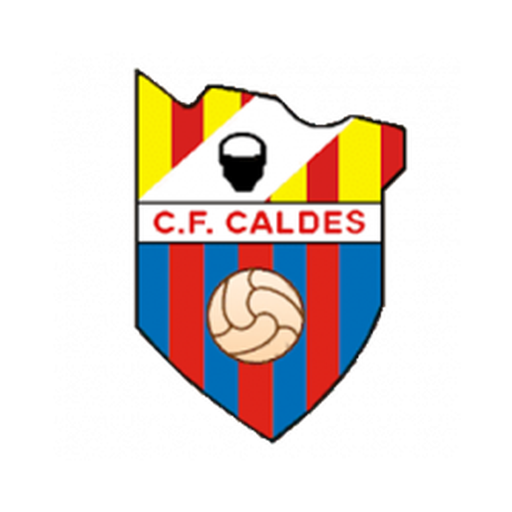
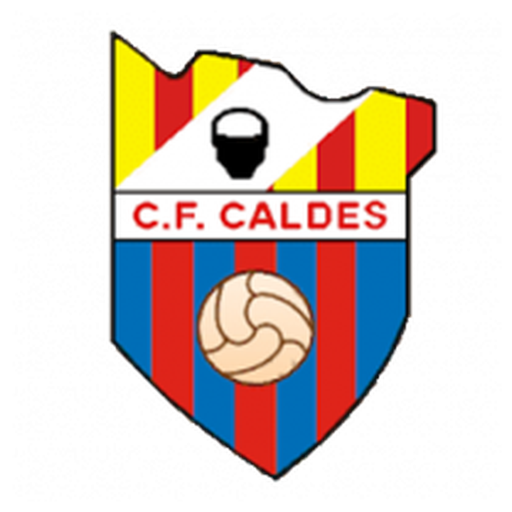
S14A: icono sin fondo blanco, pantalla Más, botón atrás y arreglos de barras en móvil

Changed region(s): [[0.1875, 0.0625, 0.875, 0.9375]]

diff --git a/index.html b/index.html
@@ -3,7 +3,7 @@
 <head>
 <meta charset="utf-8">
 <meta name="viewport" content="width=device-width,initial-scale=1">
-<title>Entrenador SUB14</title>
+<title>S14A</title>
 <style>
 :root{--bg:#f4f6f8;--card:#fff;--ink:#16202a;--mut:#5d6b78;--line:#d9e0e6;--acc:#0b6b3a;--acc2:#e8f3ec;--warn:#b42318;--warnbg:#fdecea;--ok:#067647}
 @media (prefers-color-scheme:dark){:root{--bg:#10161b;--card:#18212a;--ink:#e8eef3;--mut:#93a1ae;--line:#2a3743;--acc:#3fbf7f;--acc2:#16301f;--warn:#ff8a80;--warnbg:#3a1a18;--ok:#5fd39a}}
@@ -198,7 +198,7 @@ button.lnk{background:none;border:0;padding:0;color:inherit;cursor:pointer;text-
 .grid2>*{min-width:0}
 .row select{min-width:0;max-width:100%}
 [data-slot]{flex:1;width:0}
-html,body{overflow-x:hidden}
+html,body{overflow-x:clip}
 .ptab td{padding:6px 4px}
 .ptab input,.ptab select{padding:7px 8px}
 .row.sm{display:none}
@@ -209,6 +209,14 @@ html,body{overflow-x:hidden}
 /* Navegación inferior (móvil) y pantallas de uso en directo */
 #bnav{display:none}
 #more{display:none}
+header h1{display:flex;align-items:center;gap:8px}
+header h1 .ver{font-size:12px;font-weight:500;opacity:.75}
+#hback{display:none;border:0;background:rgba(255,255,255,.18);color:#fff;width:34px;height:34px;border-radius:10px;font-size:24px;line-height:1;padding:0 0 3px;cursor:pointer}
+body.canback #hback{display:inline-flex;align-items:center;justify-content:center}
+.masg{display:grid;grid-template-columns:repeat(3,1fr);gap:10px}
+@media(min-width:600px){.masg{grid-template-columns:repeat(4,1fr)}}
+.masg button{border:1px solid var(--line);background:var(--card);color:var(--ink);border-radius:14px;padding:14px 6px;font-size:13px;font-weight:600;display:flex;flex-direction:column;align-items:center;gap:6px;min-height:86px;box-shadow:var(--sh)}
+.masg button .i{font-size:26px}
 @media(max-width:899px){
  #tabs{display:none}
  #bnav{display:flex;position:fixed;left:0;right:0;bottom:0;top:auto;height:auto;overflow:visible;gap:2px;z-index:25;background:var(--card);border-top:1px solid var(--line);box-shadow:0 -4px 14px rgba(0,0,0,.08);padding:4px 4px calc(4px + env(safe-area-inset-bottom))}
@@ -223,7 +231,16 @@ html,body{overflow-x:hidden}
  header h1{font-size:17px}
  header .priv{display:none}
  .nav2{position:sticky;bottom:70px;background:var(--bg);padding:8px 0;z-index:6;margin:0 -2px}
- .t-sesiones .ph,.t-partido .ph{display:none}
+ .t-sesiones .ph,.t-partido .ph,.t-mas .ph{display:none}
+ body:has(#savebar.show) .nav2{bottom:142px}
+ #cdbar{padding:8px 10px;gap:6px}
+ #cdbar .t{font-size:32px;min-width:96px}
+ #cdbar .l{min-width:0;font-size:12px}
+ #cdbar button{padding:8px 10px}
+ body.cdon .nav2{bottom:200px}
+ body.cdon:has(#savebar.show) .nav2{bottom:272px}
+ body.cdon #savebar{bottom:200px}
+ body.cdon main{padding-bottom:230px}
 }
 #more.show{display:block;position:fixed;inset:0;z-index:35;background:rgba(0,0,0,.45)}
 #more .sh{position:absolute;left:0;right:0;bottom:0;background:var(--card);border-radius:18px 18px 0 0;padding:14px 14px calc(20px + env(safe-area-inset-bottom));max-height:80vh;overflow:auto}
@@ -289,7 +306,7 @@ header{background:linear-gradient(135deg,#1C3F94 0%,#16327A 60%,#C8102E 100%)!im
 </head>
 <body>
 <header>
-  <h1>Entrenador SUB14 A · v3.1</h1>
+  <h1><button id="hback" data-act="back" aria-label="Atrás">‹</button>S14A · Entrenador <span class="ver">v3.2</span></h1>
   <p class="priv">Datos de menores: se guardan solo en este dispositivo. No subir este archivo ni las copias de seguridad a ningún servicio.</p>
 </header>
 <nav id="tabs"></nav>
@@ -658,7 +675,7 @@ function clock(t){var m=Math.floor(t/60),s=t%60;return (m<10?'0':'')+m+':'+(s<10
 function histMin(id){var t=0;S.hist.forEach(function(h){t+=(h.secs&&h.secs[id])||0;});return t;}
 function opts(list,sel){return list.map(function(v){return '<option'+(v===sel?' selected':'')+'>'+esc(v)+'</option>';}).join('');}
 
-var ICON={inicio:'🏠',plantilla:'👥',pizarra:'📋',partido:'⏱',plan:'🗓',sesiones:'📝',pi:'⭐',tecnica:'🧠',coord:'🪜',cohe:'🤝',reglas:'⚖',bib:'📚',prev:'💪',abp:'🎯',videos:'▶',fichas:'🧾',normas:'📜',mensajes:'✉',nutri:'🥗',pendientes:'✅',ayuda:'❓'};
+var ICON={inicio:'🏠',plantilla:'👥',pizarra:'📋',partido:'⏱',plan:'🗓',sesiones:'📝',pi:'⭐',tecnica:'🧠',coord:'🏃',cohe:'🤝',reglas:'⚖',bib:'📚',prev:'💪',abp:'🎯',videos:'▶',fichas:'🧾',normas:'📜',mensajes:'✉',nutri:'🥗',pendientes:'✅',ayuda:'❓',mas:'☰'};
 var TABS=[['inicio','Inicio'],['plantilla','Plantilla'],['pizarra','Pizarra'],['partido','Partido'],['plan','Planificación'],['sesiones','Sesiones'],['pi','Programa individual'],['tecnica','Técnica y táctica'],['coord','Coordinación'],['prev','Prevención'],['abp','Balón parado'],['cohe','Cohesión y ánimo'],['reglas','Reglamento'],['bib','Biblioteca'],['videos','Vídeos'],['fichas','Fichas'],['normas','Normas'],['mensajes','Mensajes'],['nutri','Nutrición'],['pendientes','Pendientes'],['ayuda','Ayuda']];
 var GCAMPO=['inicio','partido','pizarra','plantilla','sesiones','plan','fichas','pi','pendientes'];
 function renderTabs(){
@@ -671,8 +688,26 @@ function renderTabs(){
   var BN=[['inicio','🏠','Inicio'],['sesiones','📝','Sesión'],['partido','⏱','Partido'],['pizarra','📋','Pizarra']];
   var enBN=BN.some(function(x){return x[0]===S.tab;});
   $('#bnav').innerHTML=BN.map(function(x){return '<button data-tab="'+x[0]+'" class="'+(S.tab===x[0]?'on':'')+'"><span class="i">'+x[1]+'</span>'+x[2]+'</button>';}).join('')+
-   '<button data-act="more" class="'+(enBN?'':'on')+'"><span class="i">☰</span>'+(enBN?'Más':esc(tn[S.tab]||'Más'))+'</button>';
+   '<button data-tab="mas" class="'+(enBN?'':'on')+'"><span class="i">☰</span>'+(enBN||S.tab==='mas'?'Más':esc(tn[S.tab]||'Más'))+'</button>';
+  document.body.classList.toggle('canback',S.tab!=='inicio');
 }
+function vMas(){
+  var tn={};TABS.forEach(function(t){tn[t[0]]=t[1];});
+  var c1=GCAMPO.filter(function(k){return ['inicio','sesiones','partido','pizarra'].indexOf(k)<0;});
+  var c2=TABS.map(function(t){return t[0];}).filter(function(k){return GCAMPO.indexOf(k)<0;});
+  function g(ks){return '<div class="masg">'+ks.map(function(k){return '<button data-tab="'+k+'"><span class="i">'+(ICON[k]||'')+'</span>'+esc(tn[k])+'</button>';}).join('')+'</div>';}
+  return '<h3 style="margin:4px 2px 10px">Campo</h3>'+g(c1)+'<h3 style="margin:18px 2px 10px">Consulta</h3>'+g(c2);
+}
+/* Botón de atrás: historial propio para que el «atrás» del móvil no cierre la app */
+function navState(){return {tab:S.tab,sesv:S.sesv||null,sstep:S.sstep||0};}
+function pushNav(){try{history.pushState(navState(),'','#'+S.tab);}catch(e){}}
+window.addEventListener('popstate',function(e){
+  var st=e.state;
+  if(DIRTY){try{history.pushState(navState(),'','#'+S.tab);}catch(x){}canLeave();return;}
+  if(!st){st={tab:'inicio'};}
+  S.tab=st.tab||'inicio';if(st.sesv!==undefined)S.sesv=st.sesv;if(st.sstep!==undefined)S.sstep=st.sstep;
+  save();render();window.scrollTo(0,0);
+});
 function showMore(){
   var tn={};TABS.forEach(function(t){tn[t[0]]=t[1];});
   var c1=GCAMPO.filter(function(k){return ['inicio','sesiones','partido','pizarra'].indexOf(k)<0;});
@@ -705,13 +740,14 @@ function render(){
   else if(S.tab==='normas')v.innerHTML=vNormas();
   else if(S.tab==='mensajes')v.innerHTML=vMensajes();
   else if(S.tab==='ayuda')v.innerHTML=vAyuda();
+  else if(S.tab==='mas')v.innerHTML=vMas();
   else v.innerHTML=vPend();
   if(S.tab!=='inicio')pageHead(v);
   if(['inicio','partido','pizarra','plantilla','sesiones','fichas','pi'].indexOf(S.tab)<0)accordionize(v);
 }
-var TABSUB={ayuda:'Cómo usar la app, por prioridades. Se actualiza con cada versión.',plantilla:'Los 18 jugadores: posiciones, perfil, pie y minutos.',pizarra:'Sistema, once y roles de balón parado.',partido:'Convocatoria, once inicial, minutos y cambios en directo.',plan:'Fases de la temporada, semana tipo y reparto de contenidos.',sesiones:'Ficha de la sesión, pase de lista, semáforo y cuenta atrás.',pi:'Prioridades, plan y tests de cada jugador.',fichas:'Seguimiento individual: objetivos y entrevistas.',pendientes:'Lo que queda por hacer, por bloques.',tecnica:'Conceptos para entender y enseñar, con diagramas.',coord:'Ejercicios de coordinación para la activación.',prev:'Fuerza, prevención y actuación ante golpes.',abp:'Jugadas de estrategia para atacar y defender.',cohe:'Grupo, ánimo y equipos mixtos.',reglas:'Reglamento y gestión del partido.',bib:'Investigación por temas, con fuentes y límites.',videos:'Vídeos de referencia por ejercicio.',normas:'Normas del equipo y capitanía.',mensajes:'Plantillas de mensajes para familias y club.',nutri:'Alimentación, hidratación y descanso.'};
+var TABSUB={mas:'Todas las demás pestañas.',ayuda:'Cómo usar la app, por prioridades. Se actualiza con cada versión.',plantilla:'Los 18 jugadores: posiciones, perfil, pie y minutos.',pizarra:'Sistema, once y roles de balón parado.',partido:'Convocatoria, once inicial, minutos y cambios en directo.',plan:'Fases de la temporada, semana tipo y reparto de contenidos.',sesiones:'Ficha de la sesión, pase de lista, semáforo y cuenta atrás.',pi:'Prioridades, plan y tests de cada jugador.',fichas:'Seguimiento individual: objetivos y entrevistas.',pendientes:'Lo que queda por hacer, por bloques.',tecnica:'Conceptos para entender y enseñar, con diagramas.',coord:'Ejercicios de coordinación para la activación.',prev:'Fuerza, prevención y actuación ante golpes.',abp:'Jugadas de estrategia para atacar y defender.',cohe:'Grupo, ánimo y equipos mixtos.',reglas:'Reglamento y gestión del partido.',bib:'Investigación por temas, con fuentes y límites.',videos:'Vídeos de referencia por ejercicio.',normas:'Normas del equipo y capitanía.',mensajes:'Plantillas de mensajes para familias y club.',nutri:'Alimentación, hidratación y descanso.'};
 function pageHead(v){
-  var tn='';TABS.forEach(function(t){if(t[0]===S.tab)tn=t[1];});
+  var tn=S.tab==='mas'?'Más':'';TABS.forEach(function(t){if(t[0]===S.tab)tn=t[1];});
   var sub=TABSUB[S.tab]||'';
   var first=v.firstElementChild;
   if(first&&first.classList.contains('card')&&!first.classList.contains('keep')&&first.children.length<=2){
@@ -1023,7 +1059,7 @@ if(S.match.running&&Date.now()-(S.match.lastTs||0)>600000){S.match.running=false
 
 /* ---------- Sesiones ---------- */
 /* ---------- Ayuda: se genera desde GUIA_USUARIO.md (lo incrusta construir_publico.py; no editar a mano) ---------- */
-var GUIA_MD=/*GUIA*/"# Guía de usuario · App Entrenador SUB14\n\nOrdenada por prioridad: empieza por arriba y baja solo cuando lo necesites.\n\n- **Dirección:** https://aquiles1984.github.io/app-entrenador/ (instalada en el móvil con el icono del escudo).\n- **Tus datos** se guardan solo en tu móvil. No hay servidor ni nube.\n\n---\n\n## Reglas básicas (léelas una vez)\n\n1. **Abajo** tienes la barra: **Inicio · Sesión · Partido · Pizarra · Más**. «Más» abre el resto de pestañas.\n2. **Cuando cambias algo**, sale abajo la barra negra **«Cambios sin guardar» › Guardar / Cancelar**. Hasta que no pulsas Guardar, no se guarda. No te deja cambiar de pestaña sin guardar o cancelar.\n3. **Lo único que se guarda solo** es el partido una vez empezado (minutos, cambios) y la cuenta atrás.\n4. **Copia de seguridad, una vez a la semana:** Más › Plantilla › **«Copiar como texto»** y pégalo en tu WhatsApp. Si cambias o pierdes el móvil, es lo que te salva.\n\n---\n\n## PRIORIDAD 1 · Lo que usarás cada día\n\n### Sesión (entreno)\nArriba eliges el **día** tocando una ficha de fecha. Debajo, tres pasos:\n\n| Paso | Cuándo | Qué haces |\n|---|---|---|\n| **Antes** | La noche anterior | Lees objetivo, material y la lista de tareas. «Ficha completa» para imprimir. |\n| **En el campo** | Durante el entreno | 1) **Pase de lista** y **semáforo** › Guardar. 2) **Empezar ▶** y vas **tarea a tarea**: diagrama, claves y **cuenta atrás**. 3) **Siguiente ▶** hasta el final. |\n| **Después** | Al acabar | **Esfuerzo del grupo** (toca 1-10), **minutos reales**, y **cada jugador** con un toque (1 flojo, 2 bien, 3 muy bien) › Guardar. |\n\n- Si la sesión es **hoy**, se abre directamente en «En el campo».\n- **Pase de lista:** Presente, Justificada o Falta. «Marcar el resto como presentes» te ahorra toques.\n- **Semáforo:** Bien, Molestia o Dolor (rodilla, talón…). Con molestia: menos saltos y esprints. Con dolor: sin impactos y avisar a la familia.\n- **Cuenta atrás:** sale abajo en grande, vibra y pita al acabar. Tienes también botones de **agua** de 1', 2' y 3'.\n\n### Partido\n| Momento | Qué haces |\n|---|---|\n| **Antes** | **Convocatoria** (toca a cada jugador o «Convocar a todos»), **once inicial** (toca a los 11) y **▶ Empezar el partido**. La **cronología T-90** te dice qué hacer y cuándo en la previa. |\n| **Durante** | **Pausar / Reanudar**, **Fin de la 1ª parte** y **2ª parte**. **Cambios:** «Abrir ventana», tocas al que **sale** (se marca en dorado) y luego al que **entra**. Contador de ventanas **0/3**. |\n| **Siempre visible** | Alerta **roja «Sin minutos»**: en Infantil S14 **todos los convocados deben jugar**. Se vuelve verde cuando todos han jugado. |\n| **Al acabar** | Resultado, **evaluación** (defensa, salida de balón, finalización) y **mensaje** listo para copiar: uno para las **familias** (sin minutos por jugador) y otro para el **coordinador** (con detalle). «Guardar al historial». |\n\n- **Golpe en la cabeza:** desplegable «🚑» en Partido: fuera del campo y no vuelve ese día, señales para llamar al 112 y botón de llamada.\n\n---\n\n## PRIORIDAD 2 · Lo que usarás cada semana\n\n### Crear los entrenos (Sesión › «+ Nueva»)\n1. Propone el siguiente día de entreno (saltándose los partidos) y el campo según el día.\n2. Elige la **idea de la semana** y escribe el **objetivo**.\n3. **«✨ Proponer sesión»** te monta activación, técnica, juego reducido y situación de partido.\n4. Ajusta: **«+ Añadir del banco»** (unas 40 tareas con diagrama; filtras por tipo y salen primero, con ⭐, las de la idea de la semana), **«+ Tarea libre»**, ▲▼ para ordenar y ✕ para quitar. Controla el **total de minutos** (75).\n5. **Guardar.**\n- **Repetir una sesión:** ábrela › Antes › **«📄 Duplicar para otro día»**.\n\n### Pizarra\n- Elige el **sistema** (4-2-3-1, 4-1-4-1, 4-4-2…). En cada puesto salen primero los jugadores que **encajan** por posición; los demás, como «excepción».\n- Arrastra los jugadores en el campo.\n- Debajo: **equilibrio del once** (perfiles) y **roles de balón parado** (lanzadores, barrera, rematadores, cierre de contra).\n\n### Más › Planificación\n- La **semana tipo** (lunes, martes, jueves), las fases de la temporada y el reparto de trabajo (poco analítico, mucho juego).\n\n---\n\n## PRIORIDAD 3 · De vez en cuando\n\n| Pestaña (en «Más») | Para qué |\n|---|---|\n| **Plantilla** | Nombres, dorsales, posición principal y secundaria, pie y minutos. Toca el título de una columna para **ordenar** (▲▼). Bajo cada nombre, **«Elegir perfil ▾»** (aéreo, salida de balón, velocidad…). Aquí también están las **copias de seguridad**. |\n| **Fichas** | Seguimiento de cada jugador: objetivos, entrevistas, pase de lista y semáforo. |\n| **Programa individual** | Prioridades, plan y tests de cada jugador. |\n| **Pendientes** | Lo que te queda por hacer (club, material…). |\n| **Mensajes** | Plantillas para familias y club: rellenas los datos y copias. |\n\n---\n\n## PRIORIDAD 4 · Consulta (cuando tengas tiempo)\n\nTodas con los textos en **desplegables cerrados** y «Abrir todo» arriba.\n\n| Pestaña | Qué hay |\n|---|---|\n| **Técnica y táctica** | Cobertura, basculación, permutas, transiciones, disparo, desmarques… con diagramas y ejercicios. |\n| **Coordinación** | Ejercicios para la activación. |\n| **Prevención** | Fuerza en Infantil (qué sí y qué no), isométricos con dosis y golpe en la cabeza. |\n| **Balón parado** | Córners, faltas y saques, en ataque y en defensa. |\n| **Cohesión y ánimo** | Grupitos, equipos mixtos y termómetro del ánimo. |\n| **Normas** | Normas del equipo y capitanía rotativa. |\n| **Reglamento** | Reglas FCF de Infantil S14 y gestión del partido. |\n| **Biblioteca** | Los 10 temas investigados, con conclusión, recomendaciones y fuentes. |\n| **Vídeos** y **Nutrición** | Referencias y consejos para las familias. |\n| **Ayuda** | Esta guía. Se actualiza sola con cada versión de la app. |\n\n---\n\n## Preguntas rápidas\n\n- **No me deja cambiar de pestaña.** Tienes cambios sin guardar: pulsa **Guardar** o **Cancelar** en la barra negra.\n- **He cambiado de móvil o he reinstalado la app.** Más › Plantilla › pega la copia de WhatsApp en «Pega aquí la copia…» › **Importar**.\n- **Quiero ver los datos en el PC.** En el móvil, «Copiar como texto» › WhatsApp. En el PC, abre la misma dirección, pega la copia › **Importar** (o **Fusionar** si ya tienes datos).\n- **La app no se actualiza.** Ciérrala del todo y ábrela otra vez. Si sigue igual, ábrela una vez en Chrome con la dirección y vuelve al icono.\n- **Sin cobertura en el campo.** Funciona igual: todo se guarda en el móvil.\n"/*FINGUIA*/;
+var GUIA_MD=/*GUIA*/"# Guía de usuario · App Entrenador SUB14\n\nOrdenada por prioridad: empieza por arriba y baja solo cuando lo necesites.\n\n- **Dirección:** https://aquiles1984.github.io/app-entrenador/ (instalada en el móvil como **S14A**, con el icono del escudo).\n- **Tus datos** se guardan solo en tu móvil. No hay servidor ni nube.\n\n---\n\n## Reglas básicas (léelas una vez)\n\n1. **Abajo** tienes la barra: **Inicio · Sesión · Partido · Pizarra · Más**. «Más» es una pantalla con el resto de pestañas.\n2. **Atrás:** el botón **‹** de arriba a la izquierda, o el de atrás del móvil, te lleva a la pantalla anterior (también paso a paso en «En el campo»). Desde Inicio, el de atrás del móvil sale de la app.\n3. **Cuando cambias algo**, sale abajo la barra negra **«Cambios sin guardar» › Guardar / Cancelar**. Hasta que no pulsas Guardar, no se guarda. No te deja cambiar de pestaña sin guardar o cancelar.\n4. **Lo único que se guarda solo** es el partido una vez empezado (minutos, cambios) y la cuenta atrás.\n5. **Copia de seguridad, una vez a la semana:** Más › Plantilla › **«Copiar como texto»** y pégalo en tu WhatsApp. Si cambias o pierdes el móvil, es lo que te salva.\n\n---\n\n## PRIORIDAD 1 · Lo que usarás cada día\n\n### Sesión (entreno)\nArriba eliges el **día** tocando una ficha de fecha. Debajo, tres pasos:\n\n| Paso | Cuándo | Qué haces |\n|---|---|---|\n| **Antes** | La noche anterior | Lees objetivo, material y la lista de tareas. «Ficha completa» para imprimir. |\n| **En el campo** | Durante el entreno | 1) **Pase de lista** y **semáforo** › Guardar. 2) **Empezar ▶** y vas **tarea a tarea**: diagrama, claves y **cuenta atrás**. 3) **Siguiente ▶** hasta el final. |\n| **Después** | Al acabar | **Esfuerzo del grupo** (toca 1-10), **minutos reales**, y **cada jugador** con un toque (1 flojo, 2 bien, 3 muy bien) › Guardar. |\n\n- Si la sesión es **hoy**, se abre directamente en «En el campo».\n- **Pase de lista:** Presente, Justificada o Falta. «Marcar el resto como presentes» te ahorra toques.\n- **Semáforo:** Bien, Molestia o Dolor (rodilla, talón…). Con molestia: menos saltos y esprints. Con dolor: sin impactos y avisar a la familia.\n- **Cuenta atrás:** sale abajo en grande, vibra y pita al acabar. Tienes también botones de **agua** de 1', 2' y 3'.\n\n### Partido\n| Momento | Qué haces |\n|---|---|\n| **Antes** | **Convocatoria** (toca a cada jugador o «Convocar a todos»), **once inicial** (toca a los 11) y **▶ Empezar el partido**. La **cronología T-90** te dice qué hacer y cuándo en la previa. |\n| **Durante** | **Pausar / Reanudar**, **Fin de la 1ª parte** y **2ª parte**. **Cambios:** «Abrir ventana», tocas al que **sale** (se marca en dorado) y luego al que **entra**. Contador de ventanas **0/3**. |\n| **Siempre visible** | Alerta **roja «Sin minutos»**: en Infantil S14 **todos los convocados deben jugar**. Se vuelve verde cuando todos han jugado. |\n| **Al acabar** | Resultado, **evaluación** (defensa, salida de balón, finalización) y **mensaje** listo para copiar: uno para las **familias** (sin minutos por jugador) y otro para el **coordinador** (con detalle). «Guardar al historial». |\n\n- **Golpe en la cabeza:** desplegable «🚑» en Partido: fuera del campo y no vuelve ese día, señales para llamar al 112 y botón de llamada.\n\n---\n\n## PRIORIDAD 2 · Lo que usarás cada semana\n\n### Crear los entrenos (Sesión › «+ Nueva»)\n1. Propone el siguiente día de entreno (saltándose los partidos) y el campo según el día.\n2. Elige la **idea de la semana** y escribe el **objetivo**.\n3. **«✨ Proponer sesión»** te monta activación, técnica, juego reducido y situación de partido.\n4. Ajusta: **«+ Añadir del banco»** (unas 40 tareas con diagrama; filtras por tipo y salen primero, con ⭐, las de la idea de la semana), **«+ Tarea libre»**, ▲▼ para ordenar y ✕ para quitar. Controla el **total de minutos** (75).\n5. **Guardar.**\n- **Repetir una sesión:** ábrela › Antes › **«📄 Duplicar para otro día»**.\n\n### Pizarra\n- Elige el **sistema** (4-2-3-1, 4-1-4-1, 4-4-2…). En cada puesto salen primero los jugadores que **encajan** por posición; los demás, como «excepción».\n- Arrastra los jugadores en el campo.\n- Debajo: **equilibrio del once** (perfiles) y **roles de balón parado** (lanzadores, barrera, rematadores, cierre de contra).\n\n### Más › Planificación\n- La **semana tipo** (lunes, martes, jueves), las fases de la temporada y el reparto de trabajo (poco analítico, mucho juego).\n\n---\n\n## PRIORIDAD 3 · De vez en cuando\n\n| Pestaña (en «Más») | Para qué |\n|---|---|\n| **Plantilla** | Nombres, dorsales, posición principal y secundaria, pie y minutos. Toca el título de una columna para **ordenar** (▲▼). Bajo cada nombre, **«Elegir perfil ▾»** (aéreo, salida de balón, velocidad…). Aquí también están las **copias de seguridad**. |\n| **Fichas** | Seguimiento de cada jugador: objetivos, entrevistas, pase de lista y semáforo. |\n| **Programa individual** | Prioridades, plan y tests de cada jugador. |\n| **Pendientes** | Lo que te queda por hacer (club, material…). |\n| **Mensajes** | Plantillas para familias y club: rellenas los datos y copias. |\n\n---\n\n## PRIORIDAD 4 · Consulta (cuando tengas tiempo)\n\nTodas con los textos en **desplegables cerrados** y «Abrir todo» arriba.\n\n| Pestaña | Qué hay |\n|---|---|\n| **Técnica y táctica** | Cobertura, basculación, permutas, transiciones, disparo, desmarques… con diagramas y ejercicios. |\n| **Coordinación** | Ejercicios para la activación. |\n| **Prevención** | Fuerza en Infantil (qué sí y qué no), isométricos con dosis y golpe en la cabeza. |\n| **Balón parado** | Córners, faltas y saques, en ataque y en defensa. |\n| **Cohesión y ánimo** | Grupitos, equipos mixtos y termómetro del ánimo. |\n| **Normas** | Normas del equipo y capitanía rotativa. |\n| **Reglamento** | Reglas FCF de Infantil S14 y gestión del partido. |\n| **Biblioteca** | Los 10 temas investigados, con conclusión, recomendaciones y fuentes. |\n| **Vídeos** y **Nutrición** | Referencias y consejos para las familias. |\n| **Ayuda** | Esta guía. Se actualiza sola con cada versión de la app. |\n\n---\n\n## Preguntas rápidas\n\n- **No me deja cambiar de pestaña.** Tienes cambios sin guardar: pulsa **Guardar** o **Cancelar** en la barra negra.\n- **He cambiado de móvil o he reinstalado la app.** Más › Plantilla › pega la copia de WhatsApp en «Pega aquí la copia…» › **Importar**.\n- **Quiero ver los datos en el PC.** En el móvil, «Copiar como texto» › WhatsApp. En el PC, abre la misma dirección, pega la copia › **Importar** (o **Fusionar** si ya tienes datos).\n- **La app no se actualiza.** Ciérrala del todo y ábrela otra vez. Si sigue igual, ábrela una vez en Chrome con la dirección y vuelve al icono.\n- **Sin cobertura en el campo.** Funciona igual: todo se guarda en el móvil.\n"/*FINGUIA*/;
 function mdInline(s){return esc(s).replace(/\*\*(.+?)\*\*/g,'<b>$1</b>').replace(/\[([^\]]+)\]\((https?:[^)]+)\)/g,'<a class="lk" href="$2" target="_blank" rel="noopener">$1</a>').replace(/(^|[\s(])(https?:\/\/[^\s)]+)/g,'$1<a class="lk" href="$2" target="_blank" rel="noopener">$2</a>');}
 function mdToHtml(md){
   var L=String(md||'').split(/\r?\n/),out=[],card=null,list=null,tbl=null,intro=[];
@@ -2374,7 +2410,7 @@ document.addEventListener('click',function(e){
   }
   var t=e.target.closest('[data-tab]');
   if(e.target.id==='more'){hideMore();return;}
-  if(t){if(t.getAttribute('data-tab')!==S.tab&&!canLeave())return;hideMore();S.tab=t.getAttribute('data-tab');save();render();window.scrollTo(0,0);return;}
+  if(t){var nt=t.getAttribute('data-tab');if(nt===S.tab)return;if(!canLeave())return;hideMore();S.tab=nt;save();pushNav();render();window.scrollTo(0,0);return;}
   var b=e.target.closest('[data-act]');if(!b)return;
   var a=b.getAttribute('data-act'),m=S.match;
   if(a==='export'){
@@ -2399,6 +2435,7 @@ document.addEventListener('click',function(e){
   else if(a==='tstadd'){var tv=($('#tv')||{}).value;if(tv==='')return;PI(S.pid).tests.push({f:($('#tf')||{}).value||today(),t:parseInt(($('#tt')||{}).value,10)||0,v:tv});save();render();}
   else if(a==='tstdel'){PI(S.pid).tests.splice(parseInt(b.getAttribute('data-i'),10),1);save();render();}
   else if(a==='syncnow'){syncNow(false);}
+  else if(a==='back'){if(!canLeave())return;history.back();}
   else if(a==='msnew'){if(!canLeave())return;beginEdit();newUserSession();S.tab='sesiones';bankOpen=false;save();render();window.scrollTo(0,0);toast('Sesión nueva: elige las tareas y pulsa Guardar','info');}
   else if(a==='msdup'){if(!canLeave())return;beginEdit();newUserSession(parseInt(b.getAttribute('data-i'),10));bankOpen=false;save();render();window.scrollTo(0,0);toast('Copia creada: cambia lo que quieras y pulsa Guardar','info');}
   else if(a==='msdel'){var ud=curUser();if(ud&&confirm('¿Borrar esta sesión?')){beginEdit();ud.del=true;S.ses=0;S.sesv='antes';save();render();}}
@@ -2410,9 +2447,9 @@ document.addEventListener('click',function(e){
   else if(a==='mtmv'){var um=curUser(),mk=parseInt(b.getAttribute('data-k'),10),md=parseInt(b.getAttribute('data-d'),10);if(um&&um.tareas[mk+md]){beginEdit();var tmp=um.tareas[mk];um.tareas[mk]=um.tareas[mk+md];um.tareas[mk+md]=tmp;save();render();}}
   else if(a==='mtdel'){var ux=curUser();if(ux){beginEdit();ux.tareas.splice(parseInt(b.getAttribute('data-k'),10),1);save();render();}}
   else if(a==='more'){if($('#more').className==='show')hideMore();else showMore();}
-  else if(a==='sesgo'){var si=parseInt(b.getAttribute('data-i'),10);if(si!==S.ses&&!canLeave())return;S.ses=si;S.attd=null;S.sstep=0;S.sesv=null;save();render();window.scrollTo(0,0);}
-  else if(a==='sesv'){var sv=b.getAttribute('data-v');if(sv!==S.sesv&&!canLeave())return;S.sesv=sv;save();render();window.scrollTo(0,0);}
-  else if(a==='sstep'){if(!canLeave())return;S.sstep=parseInt(b.getAttribute('data-v'),10)||0;save();render();window.scrollTo(0,0);}
+  else if(a==='sesgo'){var si=parseInt(b.getAttribute('data-i'),10);if(si!==S.ses&&!canLeave())return;S.ses=si;S.attd=null;S.sstep=0;S.sesv=null;save();pushNav();render();window.scrollTo(0,0);}
+  else if(a==='sesv'){var sv=b.getAttribute('data-v');if(sv!==S.sesv&&!canLeave())return;S.sesv=sv;save();pushNav();render();window.scrollTo(0,0);}
+  else if(a==='sstep'){if(!canLeave())return;S.sstep=parseInt(b.getAttribute('data-v'),10)||0;save();pushNav();render();window.scrollTo(0,0);}
   else if(a==='rpeq'){beginEdit();S.rpe=S.rpe||{};S.rpe[S.ses]=S.rpe[S.ses]||{};var rv=b.getAttribute('data-v');S.rpe[S.ses].r=(S.rpe[S.ses].r===rv?'':rv);save();render();}
   else if(a==='obsq'){beginEdit();S.obs[S.ses]=S.obs[S.ses]||{};var oid=b.getAttribute('data-id'),ov=b.getAttribute('data-v');var orr=S.obs[S.ses][oid]=S.obs[S.ses][oid]||{};orr.e=(String(orr.e)===ov?'':ov);orr.as=true;save();render();}
   else if(a==='obsx'){var xid=b.getAttribute('data-id');obsOpen[xid]=!obsOpen[xid];render();}
@@ -2440,8 +2477,8 @@ document.addEventListener('click',function(e){
   else if(a==='histdel'){if(confirm('¿Quitar este partido del historial de minutos?')){S.hist.splice(parseInt(b.getAttribute('data-i'),10),1);save();render();}}
   else if(a==='rpex'){beginEdit();if(S.rpe)delete S.rpe[b.getAttribute('data-k')];save();render();}
   else if(a==='rpesave'){if(DIRTY){saveAll();return;}save();var gb=b;gb.textContent='Guardado ✓';setTimeout(function(){gb.textContent='Guardar';},1500);}
-  else if(a==='go'){if(!canLeave())return;S.tab=b.getAttribute('data-go');save();render();window.scrollTo(0,0);}
-  else if(a==='gos'){if(!canLeave())return;S.ses=parseInt(b.getAttribute('data-i'),10);S.tab='sesiones';save();render();window.scrollTo(0,0);}
+  else if(a==='go'){if(!canLeave())return;S.tab=b.getAttribute('data-go');save();pushNav();render();window.scrollTo(0,0);}
+  else if(a==='gos'){if(!canLeave())return;S.ses=parseInt(b.getAttribute('data-i'),10);S.tab='sesiones';save();pushNav();render();window.scrollTo(0,0);}
   else if(a==='fopen'){if(!canLeave())return;S.fid=parseInt(b.getAttribute('data-id'),10);save();render();window.scrollTo(0,0);}
   else if(a==='saveall'){var ae=document.activeElement;if(ae&&ae.blur&&/INPUT|TEXTAREA|SELECT/.test(ae.tagName))ae.blur();setTimeout(saveAll,0);}
   else if(a==='cancelall'){cancelAll();}
@@ -2537,6 +2574,8 @@ document.addEventListener('pointermove',dragMove);
 document.addEventListener('pointerup',dragEnd);
 window.addEventListener('resize',function(){if(S.tab==='pizarra')drawBoard();});
 (function(){var n=P(6);if(!S.m1){if(n&&n.foot==='?'){n.foot='Z';n.note='Zurdo confirmado: opción de central o lateral izquierdo';}S.m1=1;save();}})();
+/* Al abrir, Inicio queda debajo en el historial: «atrás» vuelve a Inicio antes de salir de la app */
+try{if(S.tab==='mas')S.tab='inicio';history.replaceState({tab:'inicio',sesv:S.sesv||null,sstep:S.sstep||0},'','#inicio');if(S.tab!=='inicio')history.pushState(navState(),'','#'+S.tab);}catch(e){}
 render();
 })();
 </script>
